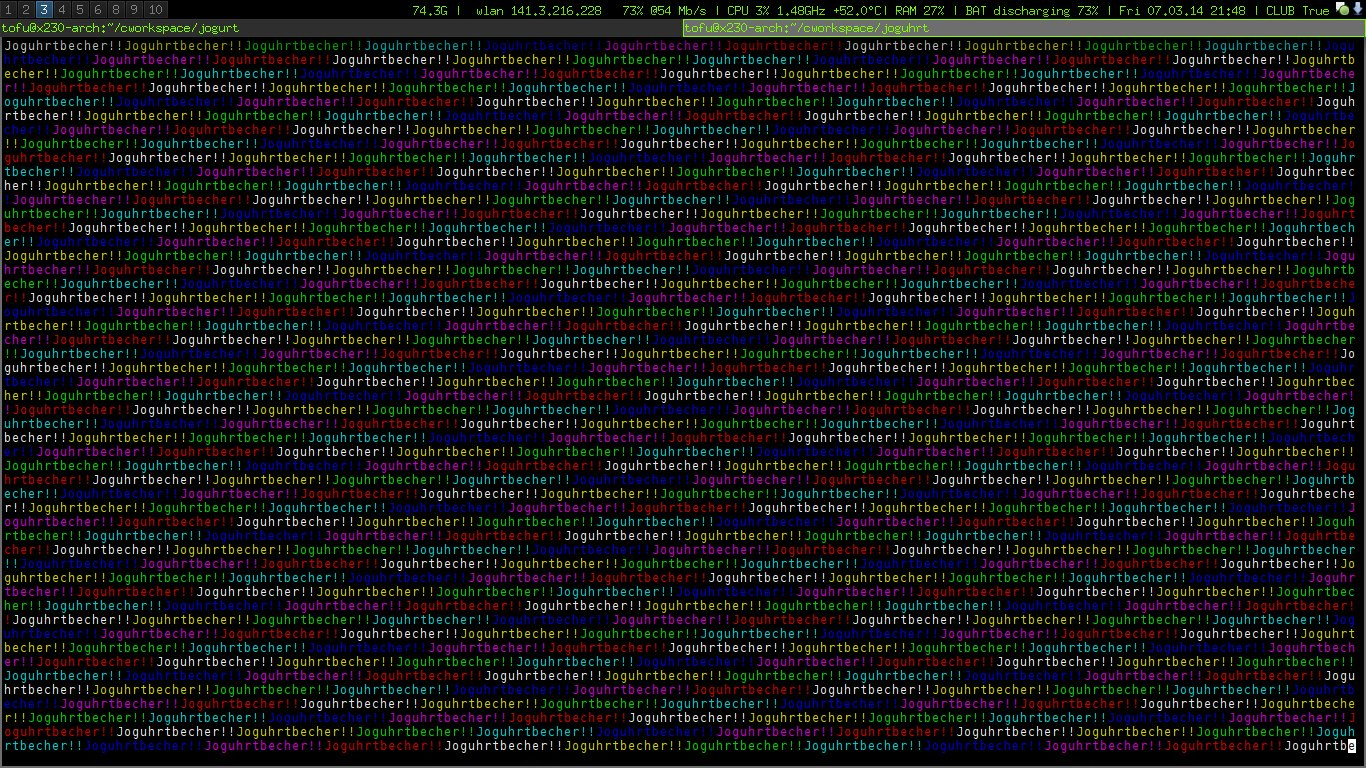
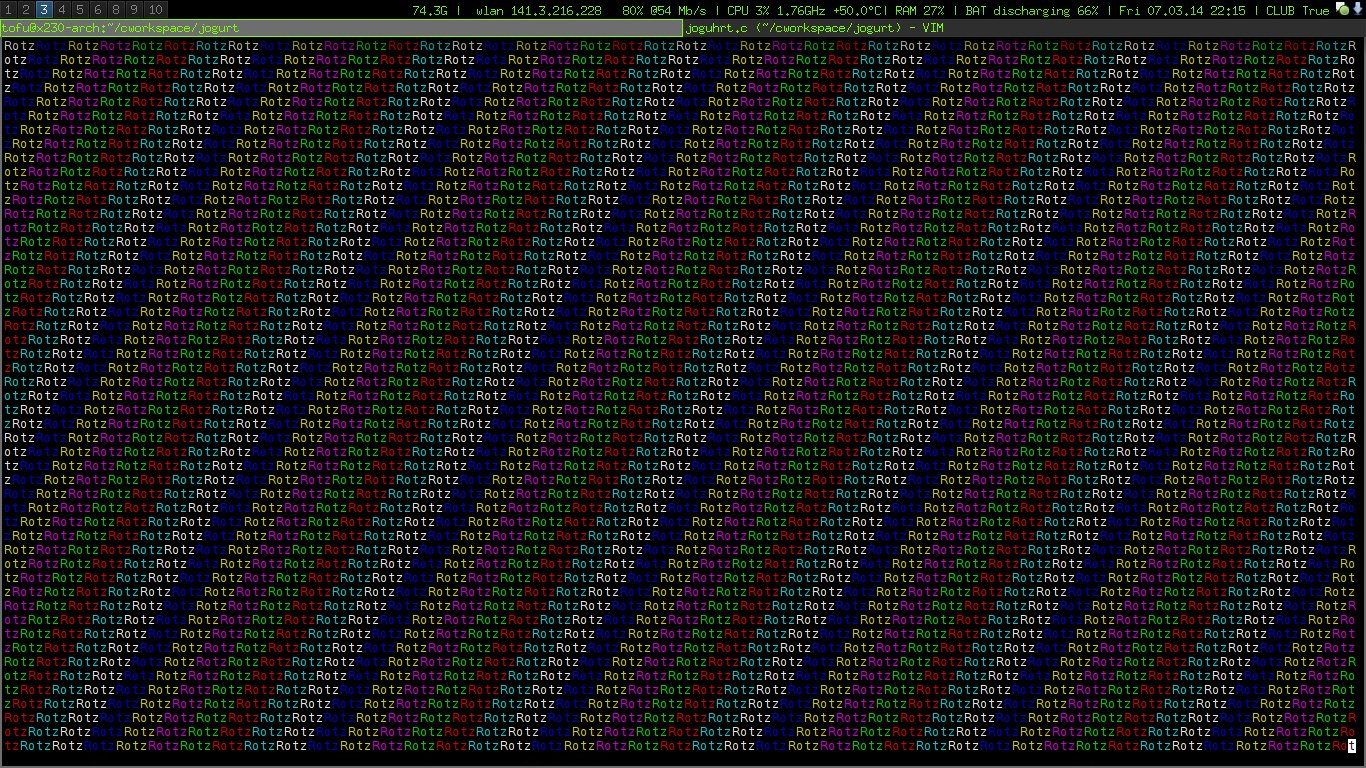
now with string input

diff --git a/joguhrt.c b/joguhrt.c
@@ -15,11 +15,19 @@ void printline( int starty, int startx,int color, char *string)
 	attroff(COLOR_PAIR(color));
 }
 
-int main(){
+int getlength(char* input){
+	int length = 0;
+	while(input[length] != 0){
+		length++;
+	}
+	return length;
+}
+
+void start(){
 	initscr();                      /* Start curses mode              */
-	raw();                          /* Line buffering disabled      */
+	cbreak();                          /* Line buffering disabled      */
         keypad(stdscr, TRUE);           /* We get F1, F2 etc..          */
-        noecho();                       /* Don't echo() while we do getch */
+        echo();                       /* Don't echo() while we do getch */
 	if(has_colors() == FALSE)
         {       endwin();
                 printf("Your terminal does not support color\n");
@@ -34,10 +42,19 @@ int main(){
 	init_pair(4, COLOR_BLUE, COLOR_BLACK);
 	init_pair(5, COLOR_MAGENTA, COLOR_BLACK);
 	init_pair(6, COLOR_RED, COLOR_BLACK);
-	
-	char* joguhrt = "Joguhrtbecher!!";
 
-	for(int i =0; i< (COLS * LINES); i+=15){
+}
+
+int main(){	
+	start();
+	char joguhrt[COLS];
+	getnstr(joguhrt,COLS);
+	int length = getlength(joguhrt);
+	
+	noecho();
+	clear();
+	refresh();
+	for(int i =0; i< (COLS * LINES); i+=length){
 		printline((int)(i/COLS) , i % COLS, i % 7, joguhrt);
 		usleep(1000);
 
